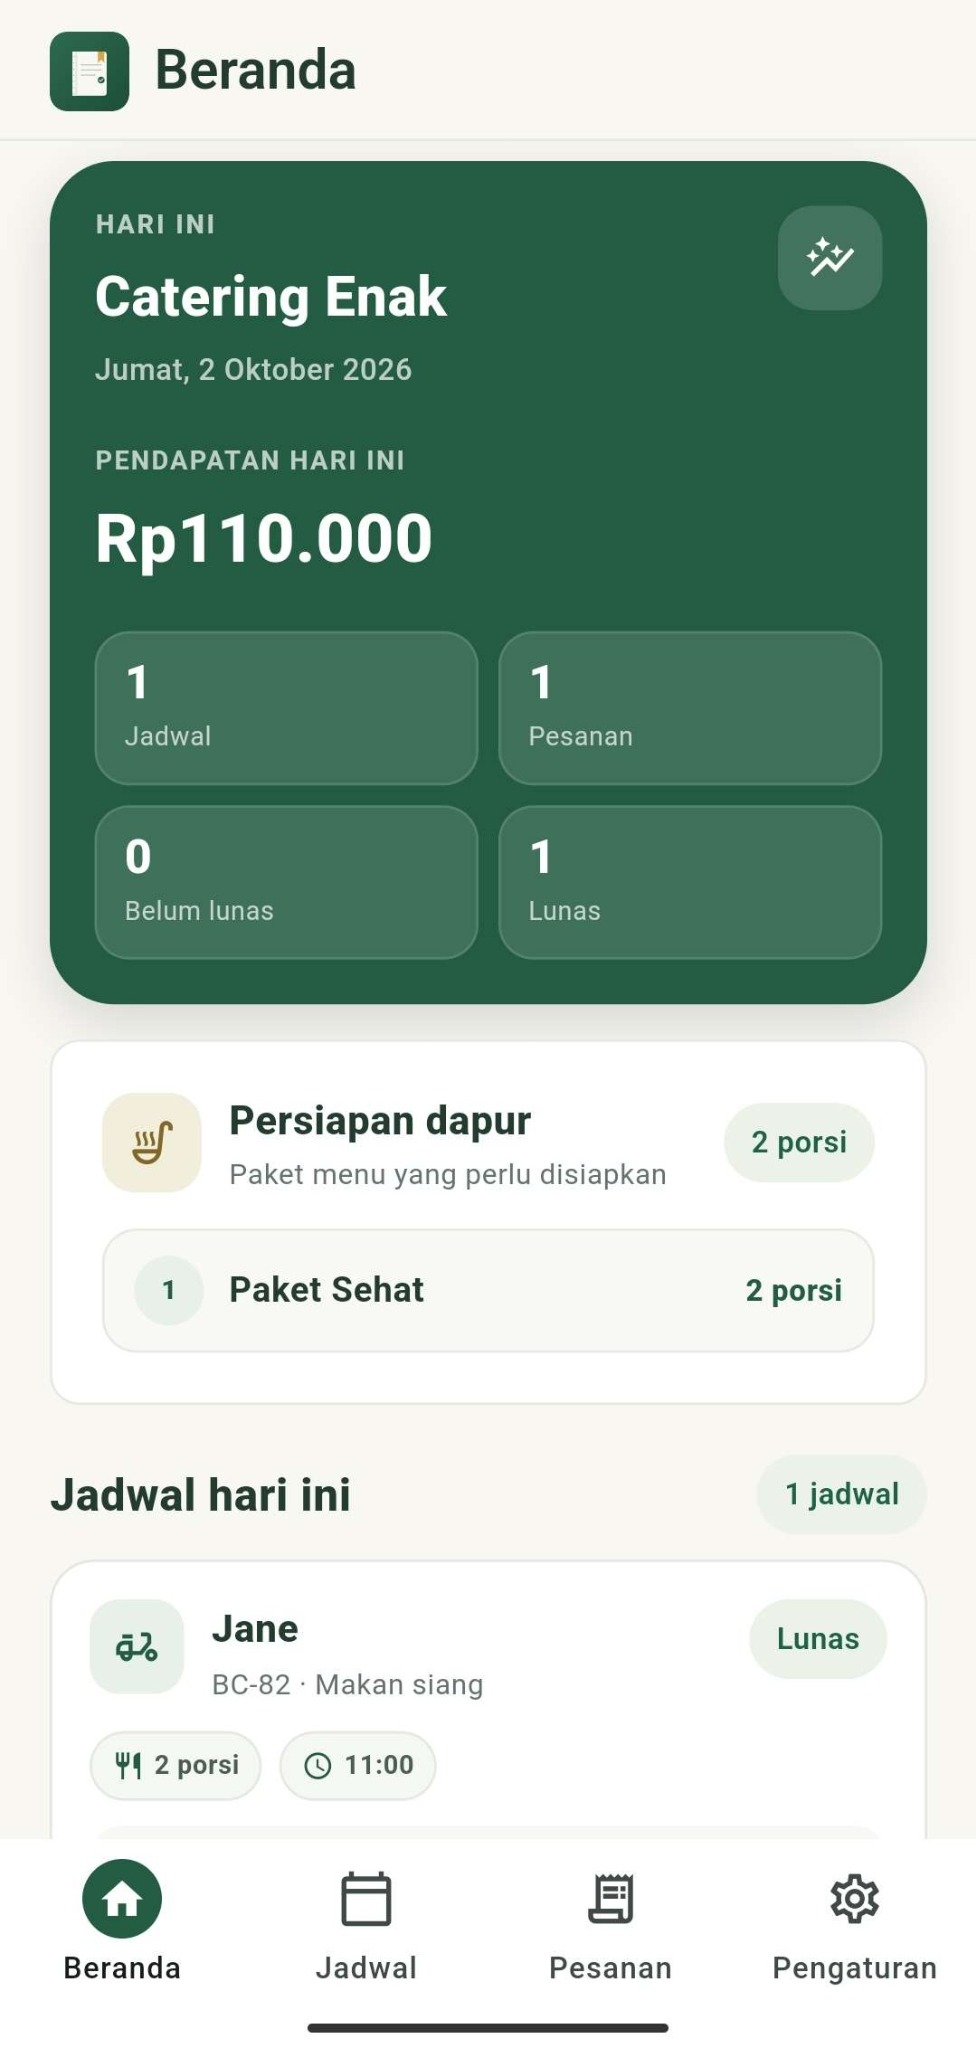
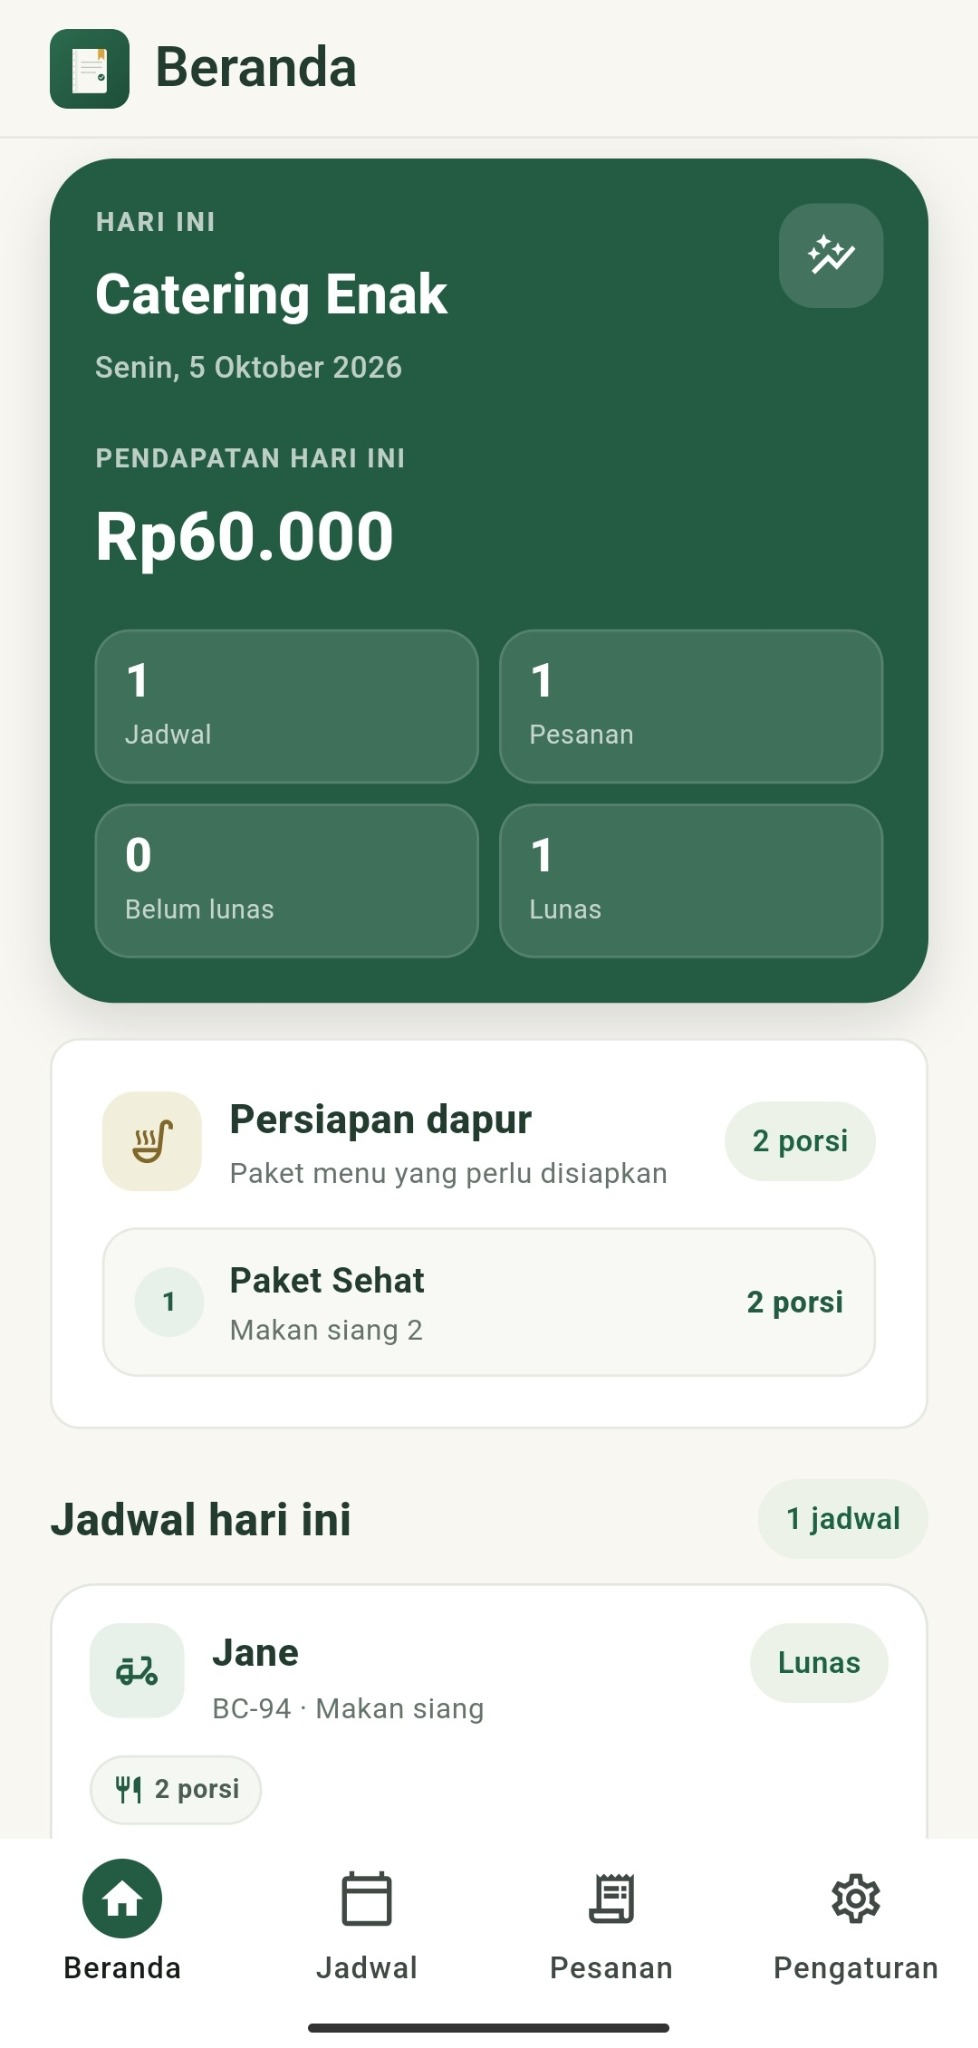
update v9

diff --git a/README.md b/README.md
@@ -56,3 +56,5 @@ Kelima tampilan diperbarui menggunakan upload terbaru. File upload Beranda.jpg d
 Trial 14 hari ditambahkan berdasarkan konfirmasi pemilik, pada informasi unduh, cara mulai, FAQ dan ajakan penutup. Tidak menetapkan tanggal mulai trial atau syarat pembayaran yang belum dikonfirmasi.
 
 Kelima screenshot diganti lagi dengan unggahan terbaru berakhiran (1). Pemetaan Beranda/Detail tetap mengikuti isi gambar, bukan nama unggahannya. Informasi trial 14 hari tetap disertakan.
+
+Screenshot diperbarui dengan unggahan (2) tanggal 5 Oktober 2026. Seluruh nama file pada unggahan ini sudah cocok dengan isi layar; tidak memakai pemetaan tertukar dari unggahan sebelumnya.
